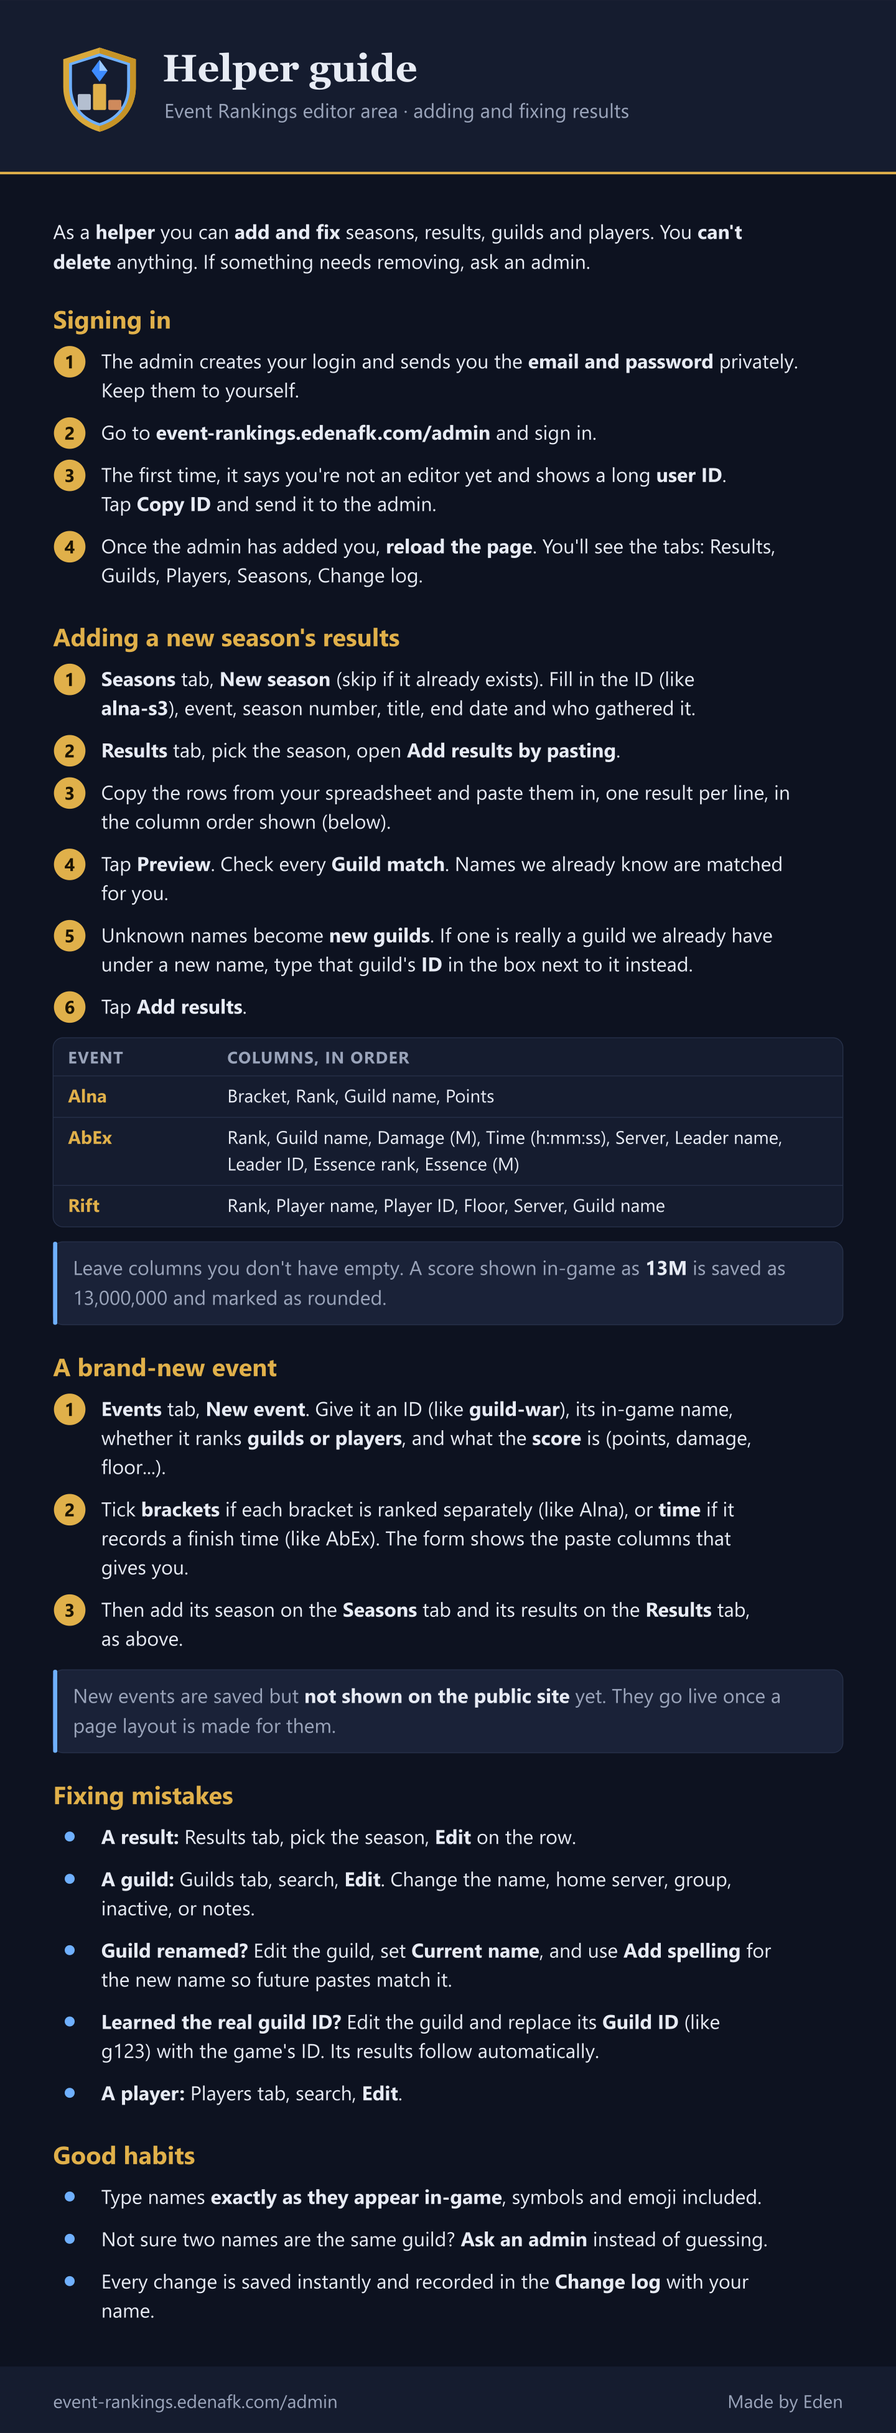
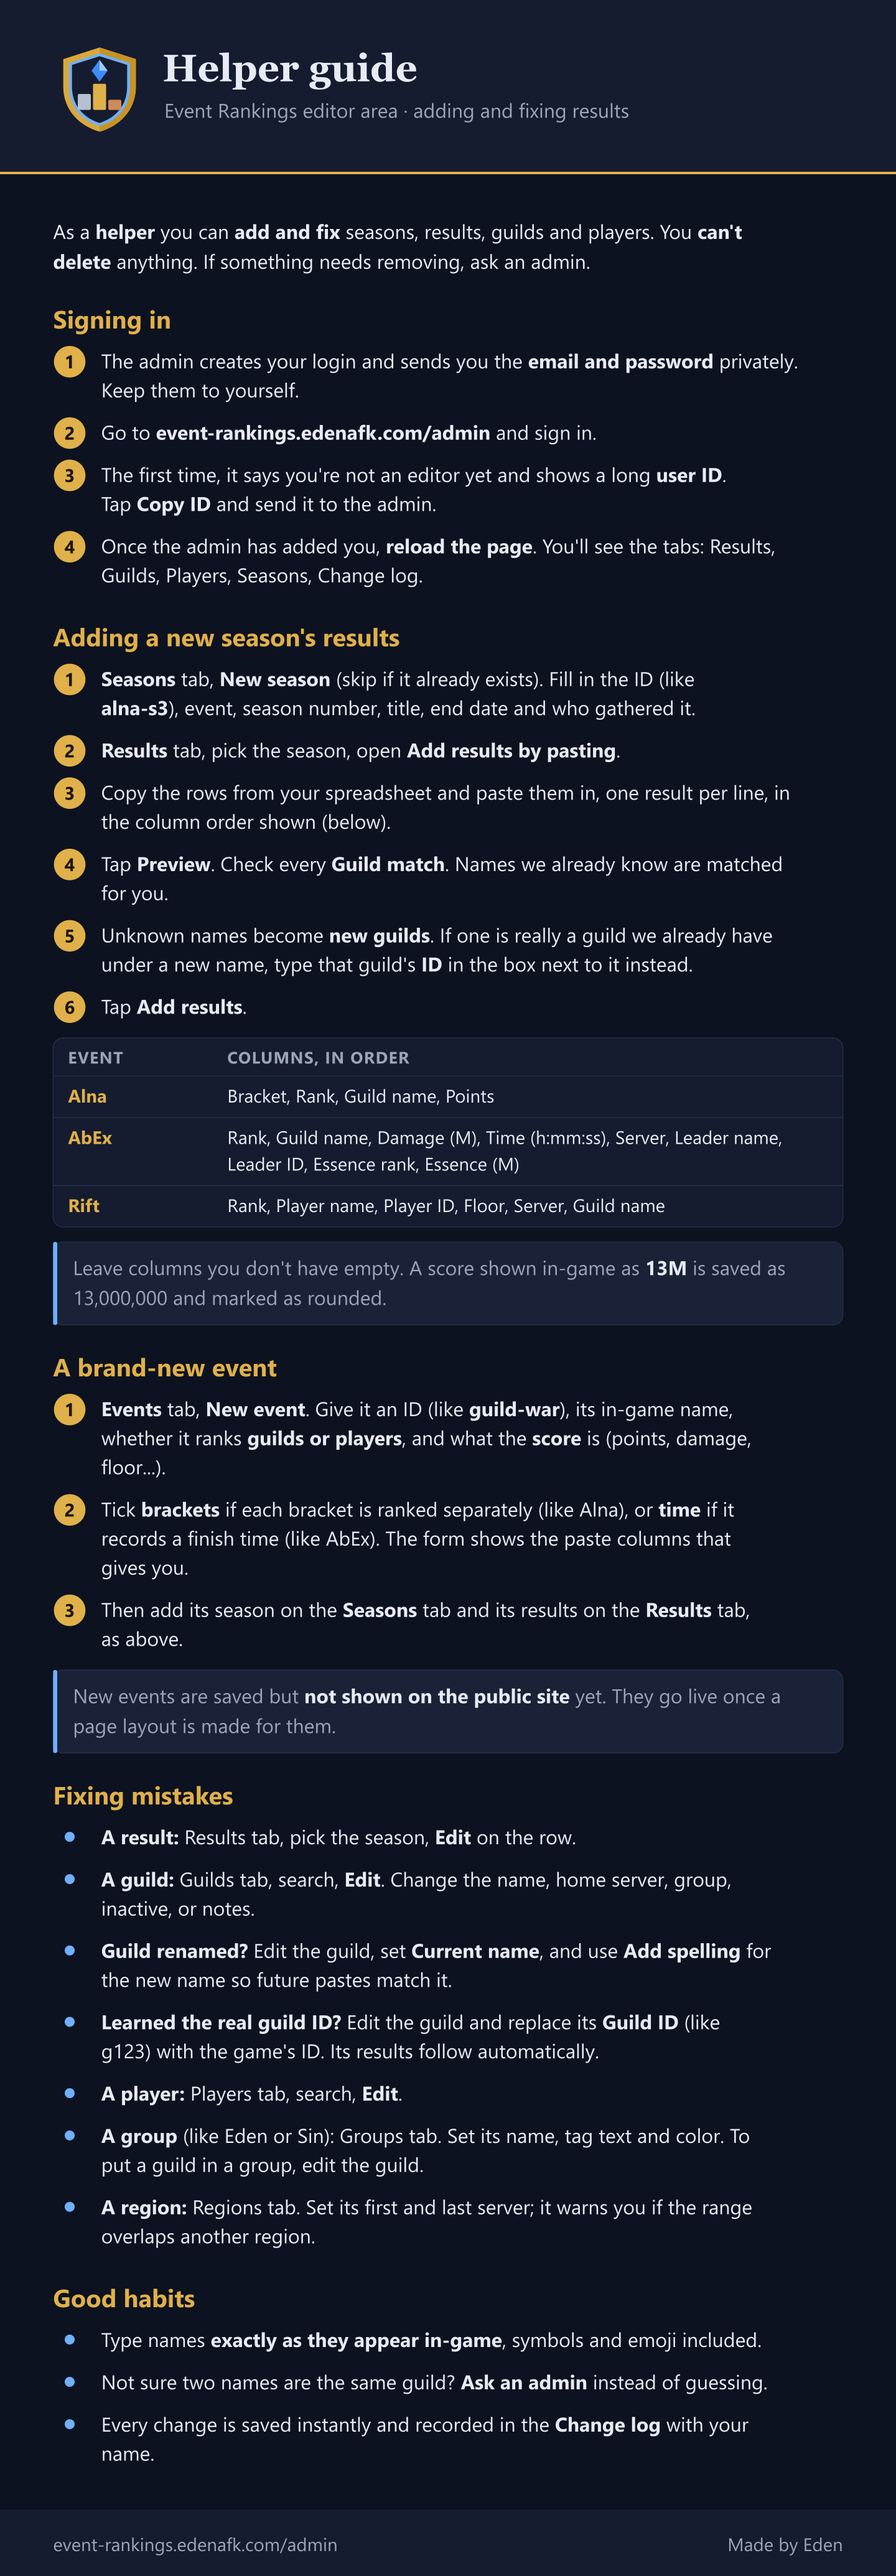
Add Groups and Regions tabs to the admin

Changed region(s): [[0.0312, 0.0, 0.875, 0.967]]

diff --git a/src/admin/app.ts b/src/admin/app.ts
@@ -1,6 +1,6 @@
 // Event Rankings admin: sign in, then add and fix seasons, results, guilds and players.
 // Permissions are enforced by the database; this page only hides what you can't use.
-import { sb, check, nextGuildId, type Group, type EventRow, type Season, type Guild, type Player, type Result, type Editor } from './db';
+import { sb, check, nextGuildId, type Group, type Region, type EventRow, type Season, type Guild, type Player, type Result, type Editor } from './db';
 import {
   h, clear, field, text, num, check as box, area, select, status, busy,
   parseNum, parseInt0, parseTime, isRounded, fmtTime, fmtInt, blank,
@@ -11,6 +11,7 @@ const root = document.getElementById('admin') as HTMLElement;
 let me: { id: string; email: string } | null = null;
 let editor: Editor | null = null;
 let groups: Group[] = [];
+let regions: Region[] = [];
 let events: EventRow[] = [];
 let seasons: Season[] = [];
 let guilds: Guild[] = [];
@@ -32,14 +33,16 @@ const remember = (k: string, v?: string) => {
 // ------------------------------------------------------------------ data
 
 async function loadAll() {
-  const [g, e, s, gu, sp, pl] = await Promise.all([
-    sb.from('groups').select('*').order('name'),
+  const [g, e, s, gu, sp, pl, rg] = await Promise.all([
+    sb.from('groups').select('*').order('sort_order').order('name'),
     sb.from('events').select('*').order('name'),
     sb.from('seasons').select('*').order('sort_order'),
     sb.from('guilds').select('id,name,home_server,group_id,inactive,notes').order('name'),
     sb.from('guild_names').select('*').order('name'),
     sb.from('players').select('id,name,guild_id,inactive,notes').order('name'),
+    sb.from('regions').select('*').order('region'),
   ]);
+  regions = check(rg) as Region[];
   groups = check(g) as Group[];
   events = check(e) as EventRow[];
   seasons = check(s) as Season[];
@@ -127,6 +130,8 @@ const TABS: Tab[] = [
   { id: 'players', label: 'Players', render: playersTab },
   { id: 'seasons', label: 'Seasons', render: seasonsTab },
   { id: 'events', label: 'Events', render: eventsTab },
+  { id: 'groups', label: 'Groups', render: groupsTab },
+  { id: 'regions', label: 'Regions', render: regionsTab },
   { id: 'log', label: 'Change log', render: logTab },
   { id: 'editors', label: 'Editors', render: editorsTab, adminOnly: true },
 ];
@@ -615,6 +620,132 @@ function editEvent(e: EventRow | null, redraw: () => void) {
   del?.addEventListener('click', async () => {
     if (!confirm(`Delete the event "${e!.name}"? Only works once it has no seasons.`)) return;
     try { check(await sb.from('events').delete().eq('id', e!.id)); await loadAll(); dlg.close(); redraw(); } catch (err) { st.err(err); }
+  });
+}
+
+// ------------------------------------------------------------------ groups
+
+function groupsTab(panel: HTMLElement) {
+  const draw = () => {
+    const members = (id: string) => guilds.filter((g) => g.group_id === id).length;
+    clear(panel,
+      h('p', { class: 'muted small' }, 'Groups are families of guilds, like Eden or Sin. A guild joins a group from its own Edit form on the Guilds tab. The tag shows the short name in the group\'s color.'),
+      h('div', { class: 'row' }, h('button', { type: 'button', class: 'btn', onclick: () => editGroup(null, draw) }, 'New group')),
+      h('div', { class: 'table-wrap' }, h('table', { class: 'rank' },
+        h('thead', {}, h('tr', {}, h('th', {}, 'Order'), h('th', {}, 'Group'), h('th', {}, 'Tag'), h('th', {}, 'ID'), h('th', { class: 'num' }, 'Guilds'), h('th', {}, ''))),
+        h('tbody', {}, groups.map((g) => h('tr', {},
+          h('td', {}, g.sort_order), h('td', {}, g.name),
+          h('td', {}, h('span', { class: 'gswatch', style: `--c:${g.color}` }, g.short_name)),
+          h('td', {}, g.id), h('td', { class: 'num' }, members(g.id)),
+          h('td', {}, h('button', { type: 'button', class: 'btn small', onclick: () => editGroup(g, draw) }, 'Edit'))))))));
+  };
+  draw();
+}
+
+function editGroup(g: Group | null, redraw: () => void) {
+  const color = g?.color ?? '#3d8bff';
+  const f = {
+    id: text(g?.id ?? '', { placeholder: 'like eden' }), name: text(g?.name ?? ''), short: text(g?.short_name ?? '', { placeholder: 'tag text, like ELTS' }),
+    color: text(color, { placeholder: '#RRGGBB' }), picker: h('input', { type: 'color', value: color, class: 'picker', 'aria-label': 'Pick a color' }),
+    order: num(g?.sort_order ?? Math.max(0, ...groups.map((x) => x.sort_order)) + 1), notes: area(g?.notes, { rows: 2 }),
+  };
+  const preview = h('span', { class: 'gswatch', style: `--c:${color}` }, g?.short_name || 'Tag');
+  const sync = () => { preview.style.setProperty('--c', f.color.value); preview.textContent = f.short.value || f.name.value || 'Tag'; };
+  f.picker.addEventListener('input', () => { f.color.value = f.picker.value; sync(); });
+  f.color.addEventListener('input', () => { if (/^#[0-9a-f]{6}$/i.test(f.color.value)) f.picker.value = f.color.value; sync(); });
+  f.short.addEventListener('input', sync);
+  f.name.addEventListener('input', sync);
+  const members = g ? guilds.filter((x) => x.group_id === g.id).length : 0;
+  const del = g && isAdmin() ? h('button', { type: 'button', class: 'btn danger' }, 'Delete') : null;
+  const { dlg, st } = dialog(g ? `Edit group: ${g.name}` : 'New group', [
+    h('div', { class: 'grid' }, field('Group ID', f.id, g ? 'Changing it moves its guilds too.' : 'Short, lowercase.'), field('Name', f.name), field('Tag text', f.short)),
+    h('div', { class: 'grid' },
+      h('div', { class: 'fld' }, h('label', { for: (f.color.id = 'gcolor') }, 'Color'), h('div', { class: 'row' }, f.picker, f.color)),
+      field('Order', f.order, 'Lower numbers are listed first.'),
+      h('div', { class: 'fld' }, h('span', { class: 'lbl' }, 'Tag preview'), preview)),
+    field('Notes', f.notes, 'For example how its guild names start.'),
+  ], async () => {
+    const id = f.id.value.trim().toLowerCase();
+    if (!/^[a-z0-9][a-z0-9-]*$/.test(id)) throw new Error('The group ID needs lowercase letters, numbers or dashes.');
+    if (!f.name.value.trim()) throw new Error('A group needs a name.');
+    if (!/^#[0-9a-f]{6}$/i.test(f.color.value.trim())) throw new Error('The color must look like #2E9E5B.');
+    const row = {
+      id, name: f.name.value.trim(), short_name: f.short.value.trim() || f.name.value.trim(), color: f.color.value.trim().toUpperCase(),
+      sort_order: parseInt0(f.order.value) ?? 0, notes: blank(f.notes.value),
+    };
+    if (g) check(await sb.from('groups').update(row).eq('id', g.id));
+    else check(await sb.from('groups').insert(row));
+    await loadAll();
+    redraw();
+    return g ? 'Saved.' : 'Group added. Add guilds to it from the Guilds tab.';
+  }, del ? [del] : []);
+  del?.addEventListener('click', async () => {
+    if (!confirm(`Delete the group "${g!.name}"? Its ${members} guild(s) stay, but without a group.`)) return;
+    try { check(await sb.from('groups').delete().eq('id', g!.id)); await loadAll(); dlg.close(); redraw(); } catch (err) { st.err(err); }
+  });
+}
+
+// ------------------------------------------------------------------ regions
+
+/** Regions whose server range overlaps r's (excluding r itself). */
+const overlapsWith = (r: Pick<Region, 'region' | 'first_server' | 'last_server'>, others: Region[]) =>
+  r.first_server == null || r.last_server == null ? [] :
+    others.filter((o) => o.region !== r.region && o.first_server != null && o.last_server != null
+      && o.first_server <= r.last_server! && r.first_server! <= o.last_server);
+
+function regionsTab(panel: HTMLElement) {
+  const draw = () => {
+    const homeIn = (r: Region) => r.first_server == null ? 0 : guilds.filter((g) => g.home_server != null && g.home_server >= r.first_server! && g.home_server <= r.last_server!).length;
+    const covered = regions.filter((r) => r.first_server != null);
+    const maxServer = Math.max(0, ...covered.map((r) => r.last_server ?? 0));
+    const uncoveredHomes = guilds.filter((g) => g.home_server != null && !covered.some((r) => g.home_server! >= r.first_server! && g.home_server! <= r.last_server!));
+    clear(panel,
+      h('p', { class: 'muted small' }, `Each region is a range of servers. ${covered.length} of ${regions.length} regions have servers, covering up to server ${maxServer}.`),
+      uncoveredHomes.length ? h('p', { class: 'status err' }, `${uncoveredHomes.length} guild home server(s) aren't in any region: ${[...new Set(uncoveredHomes.map((g) => g.home_server))].sort((a, b) => a! - b!).join(', ')}.`) : null,
+      h('div', { class: 'row' }, h('button', { type: 'button', class: 'btn', onclick: () => editRegion(null, draw) }, 'New region')),
+      h('div', { class: 'table-wrap tall' }, h('table', { class: 'rank' },
+        h('thead', {}, h('tr', {}, h('th', {}, 'Region'), h('th', {}, 'Servers'), h('th', { class: 'num' }, 'Count'), h('th', { class: 'num' }, 'Guilds'), h('th', {}, 'Notes'), h('th', {}, ''))),
+        h('tbody', {}, regions.map((r) => {
+          const clash = overlapsWith(r, regions);
+          return h('tr', {},
+            h('td', {}, `R${r.region}`),
+            h('td', {}, r.first_server == null ? h('span', { class: 'muted' }, 'not set') : `S${r.first_server}–S${r.last_server}`,
+              clash.length ? h('span', { class: 'listed warn' }, `overlaps ${clash.map((o) => 'R' + o.region).join(', ')}`) : null),
+            h('td', { class: 'num' }, r.first_server == null ? '' : r.last_server! - r.first_server + 1),
+            h('td', { class: 'num' }, homeIn(r) || ''),
+            h('td', { class: 'wrapcell' }, r.notes ?? ''),
+            h('td', {}, h('button', { type: 'button', class: 'btn small', onclick: () => editRegion(r, draw) }, 'Edit')));
+        })))));
+  };
+  draw();
+}
+
+function editRegion(r: Region | null, redraw: () => void) {
+  const last = regions.filter((x) => x.last_server != null).sort((a, b) => b.last_server! - a.last_server!)[0];
+  const f = {
+    region: num(r?.region ?? Math.max(0, ...regions.map((x) => x.region)) + 1),
+    first: num(r ? r.first_server : (last?.last_server ?? 0) + 1), last: num(r?.last_server), notes: text(r?.notes ?? '', { placeholder: 'like Confirmed by …' }),
+  };
+  const del = r && isAdmin() ? h('button', { type: 'button', class: 'btn danger' }, 'Delete') : null;
+  const { dlg, st } = dialog(r ? `Edit region R${r.region}` : 'New region', [
+    h('div', { class: 'grid' }, field('Region number', f.region), field('First server', f.first), field('Last server', f.last)),
+    field('Notes', f.notes, 'Where the range came from, for example who confirmed it.'),
+  ], async () => {
+    const row = { region: parseInt0(f.region.value), first_server: parseInt0(f.first.value), last_server: parseInt0(f.last.value), notes: blank(f.notes.value) };
+    if (row.region == null) throw new Error('Fill in the region number.');
+    if ((row.first_server == null) !== (row.last_server == null)) throw new Error('Fill in both the first and last server, or leave both empty.');
+    if (row.first_server != null && row.first_server > row.last_server!) throw new Error('The first server must not be after the last one.');
+    const clash = overlapsWith(row as Region, regions.filter((x) => x.region !== r?.region));
+    if (clash.length) throw new Error(`Those servers overlap ${clash.map((o) => `R${o.region} (S${o.first_server}–S${o.last_server})`).join(', ')}. Fix that region first.`);
+    if (r) check(await sb.from('regions').update(row).eq('region', r.region));
+    else check(await sb.from('regions').insert(row));
+    await loadAll();
+    redraw();
+    return r ? 'Saved.' : 'Region added.';
+  }, del ? [del] : []);
+  del?.addEventListener('click', async () => {
+    if (!confirm(`Delete region R${r!.region}?`)) return;
+    try { check(await sb.from('regions').delete().eq('region', r!.region)); await loadAll(); dlg.close(); redraw(); } catch (err) { st.err(err); }
   });
 }
 

diff --git a/src/admin/db.ts b/src/admin/db.ts
@@ -8,7 +8,8 @@ export const SUPABASE_KEY = 'sb_publishable_rBlmsD2-G_ece6fAXDL7aQ_0oa-iqX-';
 
 export const sb = createClient(SUPABASE_URL, SUPABASE_KEY);
 
-export interface Group { id: string; name: string; short_name: string; color: string; notes: string | null }
+export interface Group { id: string; name: string; short_name: string; color: string; notes: string | null; sort_order: number }
+export interface Region { region: number; first_server: number | null; last_server: number | null; notes: string | null }
 export interface EventRow {
   id: string; name: string; ranks: 'guild' | 'player'; score_label: string; has_brackets: boolean; has_time: boolean;
   notes: string | null; show_on_site: boolean;
